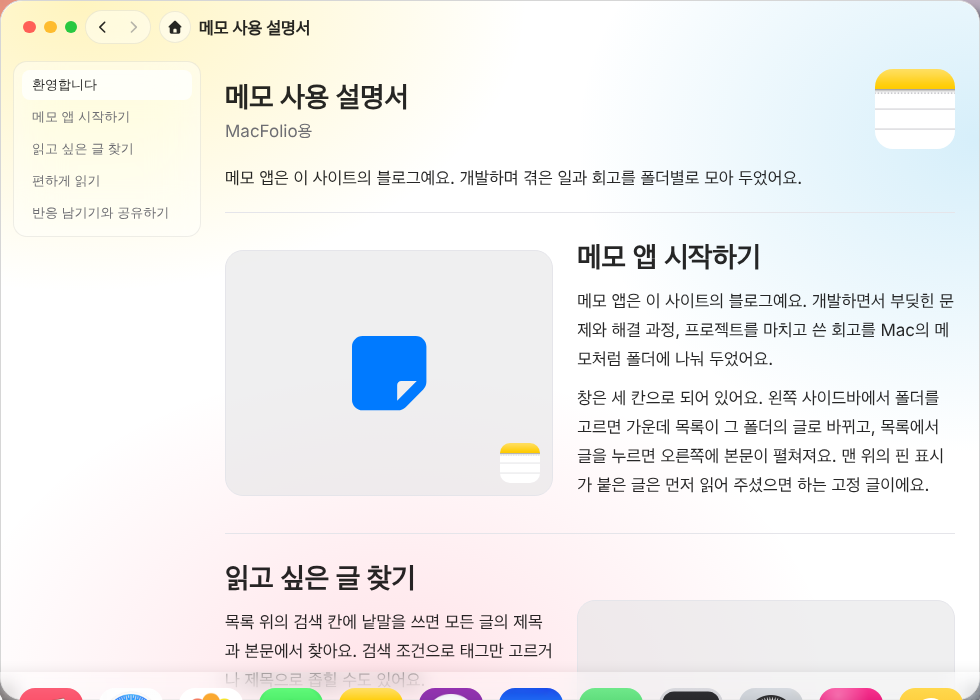
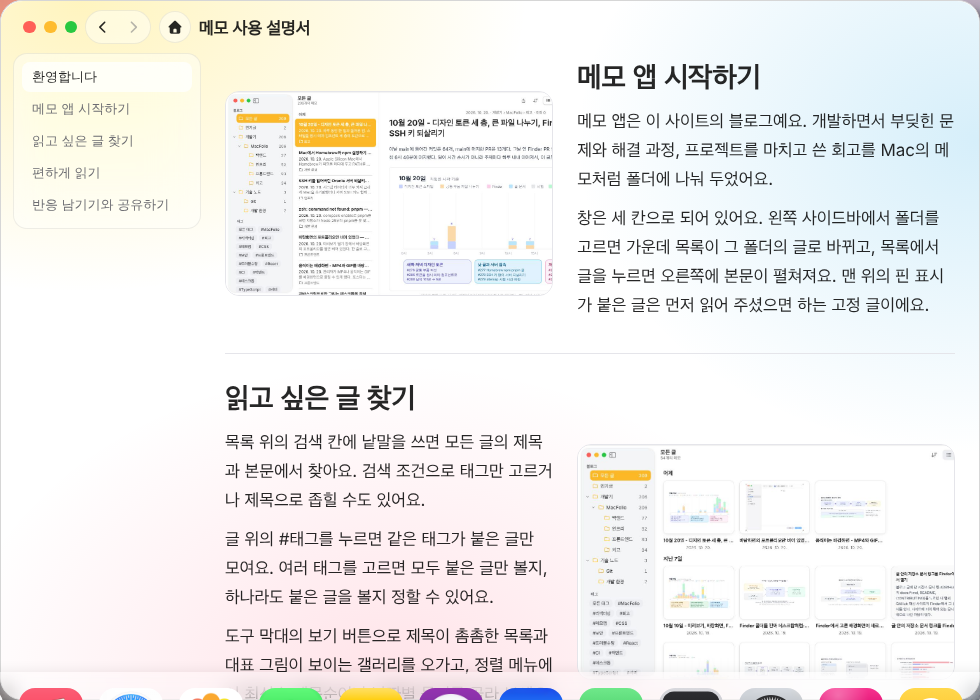
feat(tips): 글 형식 사용 설명서에 실제 화면 그림
- 메모·Finder·Safari·터미널·메시지·메일·시스템 설정의 절마다 그 기능을 쓰는 실제 화면(public/imgs/tips)
- 그림은 tips-shots/shots.spec.ts가 빌드한 사이트에서 찍는다 (playwright.tips.config.ts, 테스트와 따로)

diff --git a/apps/react/tips-shots/shots.spec.ts b/apps/react/tips-shots/shots.spec.ts
@@ -1,0 +1,133 @@
+// 팁 앱 '사용 설명서'의 글 형식 절에 곁들일 실제 화면 (public/imgs/tips/<앱>-<번호>.jpg).
+// 창을 화면에 꽉 채운 뒤 창만 잘라 찍는다. 번호는 apps/tips/manuals.ts의 ARTICLES 순서와 같다
+import type { Locator, Page } from '@playwright/test';
+import { test, expect, enterDesktop, openFromDock, appWindow } from '../e2e/fixtures';
+import { fakeApi } from '../e2e/fakeApi';
+
+const OUT = 'public/imgs/tips';
+
+async function shot(page: Page, target: Locator, name: string) {
+	await page.waitForTimeout(400);
+	await target.screenshot({ path: `${OUT}/${name}.jpg`, type: 'jpeg', quality: 80, animations: 'disabled' });
+}
+
+async function open(page: Page, app: string, { fill = true } = {}) {
+	await enterDesktop(page);
+	if (!(await appWindow(page, app).count())) await openFromDock(page, app);
+	const win = appWindow(page, app);
+	await expect(win).toBeVisible();
+	if (!fill) return win;
+	// 제목 줄을 두 번 누른 것처럼: 화면에 꽉 채운다 (Safari처럼 제목 줄이 가려진 창도)
+	await win
+		.locator('.macos-titlebar')
+		.evaluate((bar) => bar.dispatchEvent(new MouseEvent('dblclick', { bubbles: true })));
+	await page.waitForTimeout(800);
+	return win;
+}
+
+test('메모', async ({ page }) => {
+	await fakeApi(page);
+	const win = await open(page, 'memo');
+	await shot(page, win, 'memo-1');
+	await win.getByRole('button', { name: '갤러리로 보기' }).click();
+	await win.getByRole('searchbox', { name: '글 검색' }).fill('Finder');
+	await shot(page, win, 'memo-2');
+	await win.getByRole('button', { name: '목록으로 보기' }).click();
+	await win.getByRole('searchbox', { name: '글 검색' }).fill('');
+	await page.keyboard.press('Escape');
+	await page.keyboard.press('ControlOrMeta+f');
+	await win
+		.getByRole('searchbox', { name: '찾기' })
+		.or(win.getByRole('textbox', { name: '찾기' }))
+		.fill('Finder');
+	await shot(page, win, 'memo-3');
+	await page.keyboard.press('Escape');
+	await win
+		.locator('.memo-scroll, .memo-note-scroll, .memo-detail')
+		.last()
+		.evaluate((el) => el.scrollTo(0, el.scrollHeight));
+	await shot(page, win, 'memo-4');
+});
+
+test('Finder', async ({ page }) => {
+	const win = await open(page, 'finder');
+	await win.getByRole('navigation', { name: '즐겨찾기' }).getByRole('button', { name: '데스크탑' }).click();
+	await shot(page, win, 'finder-1');
+	await win.getByRole('navigation', { name: '즐겨찾기' }).getByRole('button', { name: '문서' }).click();
+	await shot(page, win, 'finder-2');
+	await win.getByRole('listbox', { name: '문서' }).getByRole('option', { name: '이력서', exact: true }).dblclick();
+	await shot(page, win, 'finder-3');
+});
+
+test('Safari', async ({ page }) => {
+	const win = await open(page, 'safari');
+	await shot(page, win, 'safari-1');
+	await win.getByRole('tablist', { name: '프로젝트 탭' }).getByRole('tab').nth(1).click();
+	await shot(page, win, 'safari-2');
+	await win.locator('[role="tabpanel"]').evaluate((el) => {
+		const scroller = [el, ...el.querySelectorAll('*')].find((n) => n.scrollHeight > n.clientHeight + 200) as
+			HTMLElement | undefined;
+		scroller?.scrollTo(0, scroller.scrollHeight * 0.45);
+	});
+	await shot(page, win, 'safari-3');
+});
+
+test('터미널', async ({ page }) => {
+	const win = await open(page, 'terminal', { fill: false });
+	const input = win.getByRole('textbox', { name: '명령어 입력' });
+	await input.fill('help');
+	await input.press('Enter');
+	await shot(page, win, 'terminal-1');
+	await input.fill('clear');
+	await input.press('Enter');
+	await input.fill('whoami');
+	await input.press('Enter');
+	await shot(page, win, 'terminal-2');
+	await input.fill('clear');
+	await input.press('Enter');
+	for (const command of ['date', 'skills', 'history']) {
+		await input.fill(command);
+		await input.press('Enter');
+	}
+	await input.fill('pro');
+	await shot(page, win, 'terminal-3');
+});
+
+test('메시지', async ({ page }) => {
+	const win = await open(page, 'messages');
+	await shot(page, win, 'messages-1');
+	await win.getByRole('button', { name: '새 피드백' }).first().click();
+	const box = win.getByRole('textbox', { name: '메시지' });
+	await box.fill('사이트가 진짜 Mac 같아요! 터미널에서 resume 쳐 보고 놀랐어요 😆');
+	await box.press('Enter');
+	await shot(page, win, 'messages-2');
+});
+
+test('메일', async ({ page }) => {
+	await fakeApi(page);
+	const win = await open(page, 'mail');
+	await win.getByRole('button', { name: '새로운 메시지' }).first().click();
+	await win.getByLabel('이름').fill('김방문');
+	await win.getByLabel('회신 주소').fill('visitor@example.com');
+	await win.getByLabel('제목').fill('포트폴리오 잘 봤습니다');
+	await win
+		.getByRole('textbox')
+		.last()
+		.fill('안녕하세요! MacFolio를 재미있게 둘러봤어요. 프론트엔드 포지션으로 이야기 나눠 보고 싶습니다.');
+	await shot(page, win, 'mail-1');
+	await win.getByRole('button', { name: '보내기' }).click();
+	await win.getByText('보낸 편지함').first().click();
+	await shot(page, win, 'mail-2');
+});
+
+test('시스템 설정', async ({ page }) => {
+	const win = await open(page, 'settings');
+	for (const [label, name] of [
+		['화면 모드', 'settings-1'],
+		['개인정보 보호 및 보안', 'settings-2'],
+		['정보', 'settings-3'],
+	]) {
+		await win.getByRole('button', { name: label, exact: true }).first().click();
+		await shot(page, win, name);
+	}
+});

diff --git a/apps/react/src/apps/tips/Tips.css b/apps/react/src/apps/tips/Tips.css
@@ -531,7 +531,7 @@
 /* 글 형식의 절 (기능이 많은 앱): 그림 칸과 큰 제목·문단을 번갈아 좌우로 */
 .tips-article {
 	display: grid;
-	grid-template-columns: minmax(0, 1fr) minmax(0, 1.15fr);
+	grid-template-columns: minmax(0, 1.3fr) minmax(0, 1fr);
 	gap: var(--space-24);
 	align-items: center;
 	padding: var(--space-24) 0;
@@ -539,8 +539,20 @@
 	scroll-margin-top: var(--space-12);
 }
 
-.tips-article:nth-of-type(even) .tips-article-art {
+.tips-article:nth-of-type(even) .tips-article-art,
+.tips-article:nth-of-type(even) .tips-article-shot {
 	order: 2;
+}
+
+/* 실제 화면 그림: 창의 왼쪽 위(사이드바·목록)가 보이게 자른다 */
+.tips-article-shot {
+	display: block;
+	width: 100%;
+	border: 1px solid var(--color-separator);
+	border-radius: var(--radius-14);
+	object-fit: cover;
+	object-position: left top;
+	aspect-ratio: 16 / 10;
 }
 
 .tips-article-art {
@@ -648,7 +660,8 @@
 		gap: var(--space-14);
 	}
 
-	.tips-article:nth-of-type(even) .tips-article-art {
+	.tips-article:nth-of-type(even) .tips-article-art,
+	.tips-article:nth-of-type(even) .tips-article-shot {
 		order: 0;
 	}
 

diff --git a/apps/react/src/apps/tips/manuals.ts b/apps/react/src/apps/tips/manuals.ts
@@ -7,8 +7,10 @@ export interface ManualArticle {
 	title: string;
 	/** 문단마다 한 줄 */
 	paragraphs: string[];
-	/** 그림 칸에 크게 보일 아이콘 */
+	/** 그림이 없을 때 그림 칸에 크게 보일 아이콘 (찾기 결과에도) */
 	icon: string;
+	/** 실제 화면 그림 (public/imgs/tips, tips-shots/shots.spec.ts가 찍는다) */
+	image?: string;
 	/** 데스크톱 단축키 (보기용) */
 	keys?: string;
 }
@@ -603,4 +605,9 @@ const ARTICLES: Partial<Record<AppName, ManualArticle[]>> = {
 	],
 };
 
-for (const manual of MANUALS) manual.articles = ARTICLES[manual.app];
+// 그림은 앱마다 절 순서대로 <앱>-<번호>.jpg
+for (const manual of MANUALS)
+	manual.articles = ARTICLES[manual.app]?.map((article, index) => ({
+		...article,
+		image: `/imgs/tips/${manual.app}-${index + 1}.jpg`,
+	}));

diff --git a/apps/react/src/apps/tips/Tips.tsx b/apps/react/src/apps/tips/Tips.tsx
@@ -121,10 +121,14 @@ const ManualPage = ({
 				<p className="tips-manual-intro">{intro}</p>
 				{articles?.map((each, index) => (
 					<section key={each.title} id={`tips-section-${index}`} className="tips-article">
-						<span className="tips-article-art" aria-hidden="true">
-							<i className={each.icon} />
-							{art && <img src={art} alt="" />}
-						</span>
+						{each.image ? (
+							<img className="tips-article-shot" src={each.image} alt={`${each.title} 화면`} loading="lazy" />
+						) : (
+							<span className="tips-article-art" aria-hidden="true">
+								<i className={each.icon} />
+								{art && <img src={art} alt="" />}
+							</span>
+						)}
 						<div className="tips-article-text">
 							<h2>{each.title}</h2>
 							{each.paragraphs.map((paragraph) => (

diff --git a/apps/react/playwright.tips.config.ts b/apps/react/playwright.tips.config.ts
@@ -1,0 +1,12 @@
+// 팁 앱 사용 설명서의 화면 그림을 다시 찍는다 (테스트가 아니다): pnpm build 후 pnpm exec playwright test -c playwright.tips.config.ts
+import { defineConfig, devices } from '@playwright/test';
+import base from './playwright.config';
+
+export default defineConfig({
+	...base,
+	testDir: './tips-shots',
+	fullyParallel: false,
+	retries: 0,
+	reporter: 'list',
+	projects: [{ name: 'tips-shots', use: { ...devices['Desktop Chrome'], viewport: { width: 1280, height: 800 } } }],
+});
